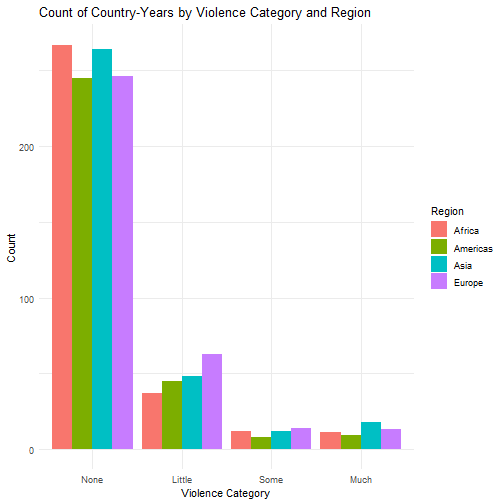
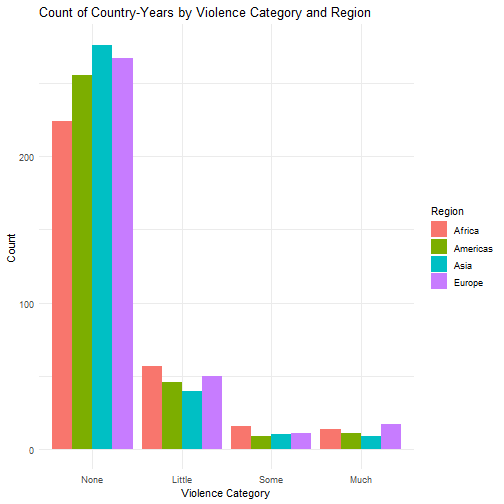
lab 1 updates

diff --git a/Slides/Lab1Practice.html b/Slides/Lab1Practice.html
@@ -11,7 +11,7 @@
 
 <meta name="author" content="Jaye Seawright" />
 
-<meta name="date" content="2025-10-21" />
+<meta name="date" content="2026-10-06" />
 
 <title>Lab 1: Your Turn Practice Exercise</title>
 
@@ -352,7 +352,7 @@ display: none;
 
 <h1 class="title toc-ignore">Lab 1: Your Turn Practice Exercise</h1>
 <h4 class="author">Jaye Seawright</h4>
-<h4 class="date">Oct. 21, 2025</h4>
+<h4 class="date">Oct. 6, 2026</h4>
 
 </div>
 
@@ -364,15 +364,15 @@ display: none;
 get stuck, ask a neighbor or raise your hand—TAs are circulating to
 help.</p>
 <p><strong>You don’t need to submit this for a grade.</strong> It’s just
-practice. But keeping your code and notes will help you with Homework
-1.</p>
+practice. An answer key will be posted after class so you can check your
+work.</p>
 <hr />
 </div>
 <div id="the-research-question" class="section level2">
 <h2>The Research Question</h2>
 <p>A political scientist wants to know whether <strong>federal
 health-care grant funding</strong> is distributed differently to
-counties that support the incument president in elections.</p>
+counties that support the incumbent president in elections.</p>
 <p>She has two datasets:</p>
 <ul>
 <li><code>grants</code>: Each row is a federal health-care grant awarded
@@ -423,8 +423,6 @@ using <code>head()</code>, <code>summary()</code>, and
 </ol>
 <pre class="r"><code># Write your code here
 
-
-
 # Write your observations here (as comments)</code></pre>
 <hr />
 </div>
@@ -433,16 +431,16 @@ using <code>head()</code>, <code>summary()</code>, and
 <p>We want to add the county presidential vote to each grant record.</p>
 <p><strong>Your Task:</strong> Use <code>left_join()</code> to merge
 <code>counties_2024</code> into <code>grants_2025</code> so that we have
-access to the trumpvote variable inside each grant entry, matching on
-the common variable you identified above.</p>
+access to the <code>trumpvote</code> variable inside each grant entry,
+matching on the common variable you identified above.</p>
 <pre class="r"><code># Write your merge code here
 grants_joined &lt;- 
 
 # Check your work: look at the first few rows
 head(grants_joined)
 
-# How many grants went to Democratic vs. Republican counties?
-summary(grants_joined$trumpvote)  # Adjust &quot;party&quot; to the actual column name</code></pre>
+# How many grants went to counties with high vs. low Trump vote?
+summary(grants_joined$trumpvote)</code></pre>
 <hr />
 </div>
 <div id="step-3-create-a-new-variable" class="section level2">
@@ -452,8 +450,8 @@ matter: more populous counties might get more grants regardless of
 election outcome.</p>
 <p><strong>Your Task:</strong> The <code>counties</code> dataset has a
 <code>population</code> variable. After merging, it should now be in
-<code>grants</code>. Create a new variable called <code>pop_group</code>
-that divides counties into three categories:</p>
+<code>grants_joined</code>. Create a new variable called
+<code>pop_group</code> that divides counties into three categories:</p>
 <ul>
 <li>“Small”: population less than 100,000</li>
 <li>“Medium”: population 100,000 to 500,000</li>
@@ -462,33 +460,34 @@ that divides counties into three categories:</p>
 <p><em>Hint: Use <code>mutate()</code> and <code>cut()</code> with the
 <code>breaks = c(0, 100000, 500000, Inf)</code> argument.</em></p>
 <pre class="r"><code># Write your code here
-grants &lt;- grants %&gt;%
-  mutate(pop_group = )
-
-# Hint: we&#39;ve done things like: cut(population, breaks = c(0, 100000, 500000, Inf), 
-#           labels = c(&quot;Small&quot;, &quot;Medium&quot;, &quot;Large&quot;))
+grants_joined &lt;- grants_joined %&gt;%
+  mutate(pop_group = cut(population, 
+                         breaks = c(0, 100000, 500000, Inf),
+                         labels = c(&quot;Small&quot;, &quot;Medium&quot;, &quot;Large&quot;)))
 
 # Check your work
-table(grants$pop_group)</code></pre>
+table(grants_joined$pop_group)</code></pre>
 <hr />
 </div>
 <div id="step-4-visualize-the-data" class="section level2">
 <h2>Step 4: Visualize the Data</h2>
 <p><strong>Your Task:</strong> Create a bar plot showing the number of
-grants by population group, with bars colored by party that won in
-2024.</p>
+grants by population group, with bars colored by the party that won in
+2024 (you’ll need to get the winning party from the
+<code>counties_2024</code> data – it has a <code>party</code> column for
+the candidate).</p>
 <p>Use <code>ggplot()</code> with: - <code>x = pop_group</code> -
-<code>fill = party</code> (or whatever the party column is named) -
+<code>fill = party</code> (the winning party in that county) -
 <code>geom_bar(position = &quot;dodge&quot;)</code> - Appropriate labels and a
 minimal theme - Manual colors: blue for Democratic, red for
 Republican</p>
 <pre class="r"><code># Write your code here
-ggplot(grants, aes(x = , fill = )) +
+ggplot(grants_joined, aes(x = pop_group, fill = party)) +
   geom_bar(position = &quot;dodge&quot;) +
-  labs(title = ,
-       x = ,
-       y = ,
-       fill = ) +
+  labs(title = &quot;Number of Grants by Population Group and Winning Party&quot;,
+       x = &quot;Population Group&quot;,
+       y = &quot;Number of Grants&quot;,
+       fill = &quot;Party&quot;) +
   scale_fill_manual(values = c(&quot;blue&quot;, &quot;red&quot;)) +
   theme_minimal() +
   theme(axis.text.x = element_text(angle = 45, hjust = 1))</code></pre>
@@ -508,9 +507,7 @@ groups?</li>
 
 # 1. 
 
-
 # 2. 
-
 
 # 3. </code></pre>
 <hr />
@@ -530,7 +527,7 @@ demo?</li>
 <div id="done" class="section level2">
 <h2>Done!</h2>
 <p>You’ve practiced: - Loading and examining data - Merging two datasets
-- Creating a categorical variable - Making a bar plot with groups -
+- Creating a categorical variable - Making a grouped bar plot -
 Interpreting results</p>
 <p>These are exactly the skills you’ll need for Homework 1. Keep this
 file as a reference!</p>

diff --git a/Slides/StatisticalComputingLabSession1.html b/Slides/StatisticalComputingLabSession1.html
@@ -4,7 +4,7 @@
     <title>Lab 1: Preparing for Homework 1</title>
     <meta charset="utf-8" />
     <meta name="author" content="Jaye Seawright" />
-    <meta name="date" content="2026-11-03" />
+    <meta name="date" content="2026-10-06" />
     <script src="libs/header-attrs-2.30/header-attrs.js"></script>
     <link rel="stylesheet" href="xaringan-themer.css" type="text/css" />
   </head>
@@ -25,7 +25,7 @@ class: center, middle, inverse, title-slide
 ### <small>Northwestern Political Science</small>
 ]
 .date[
-### Nov. 3, 2026
+### Oct. 6, 2026
 ]
 
 ---
